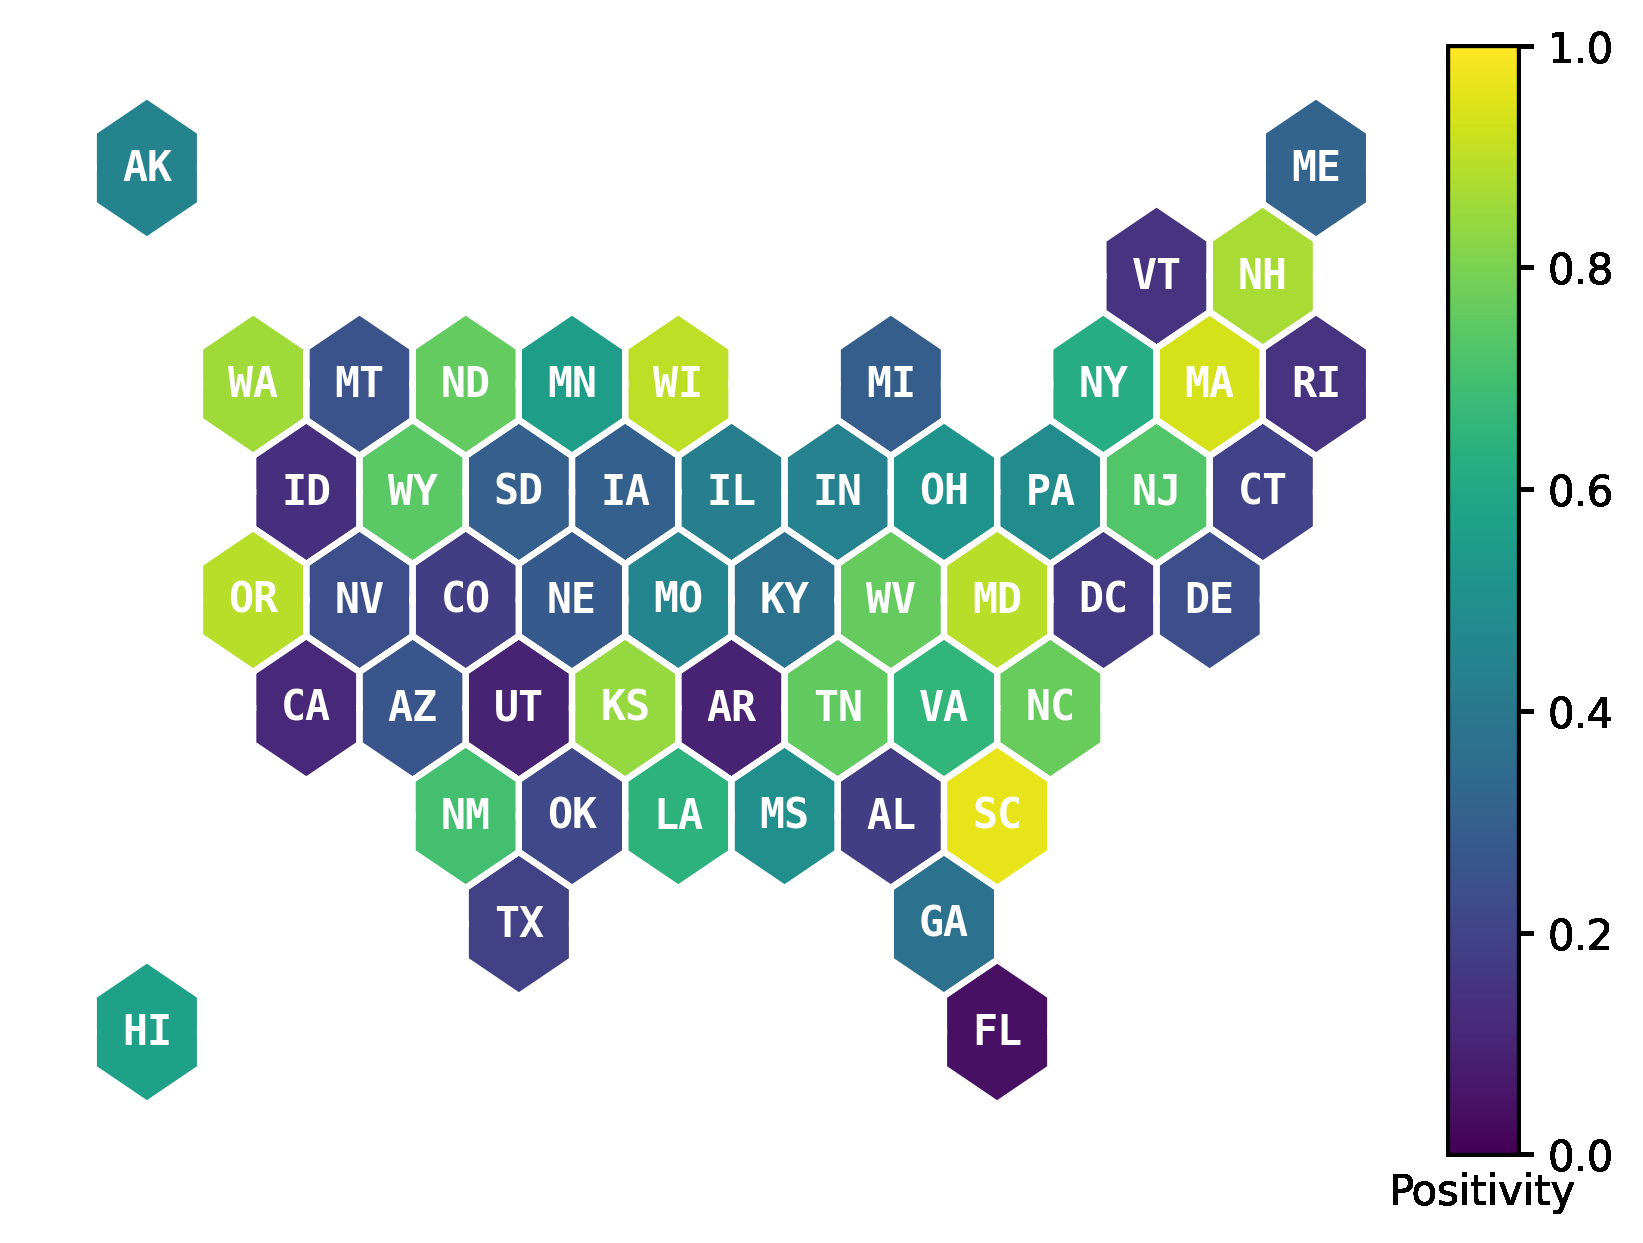
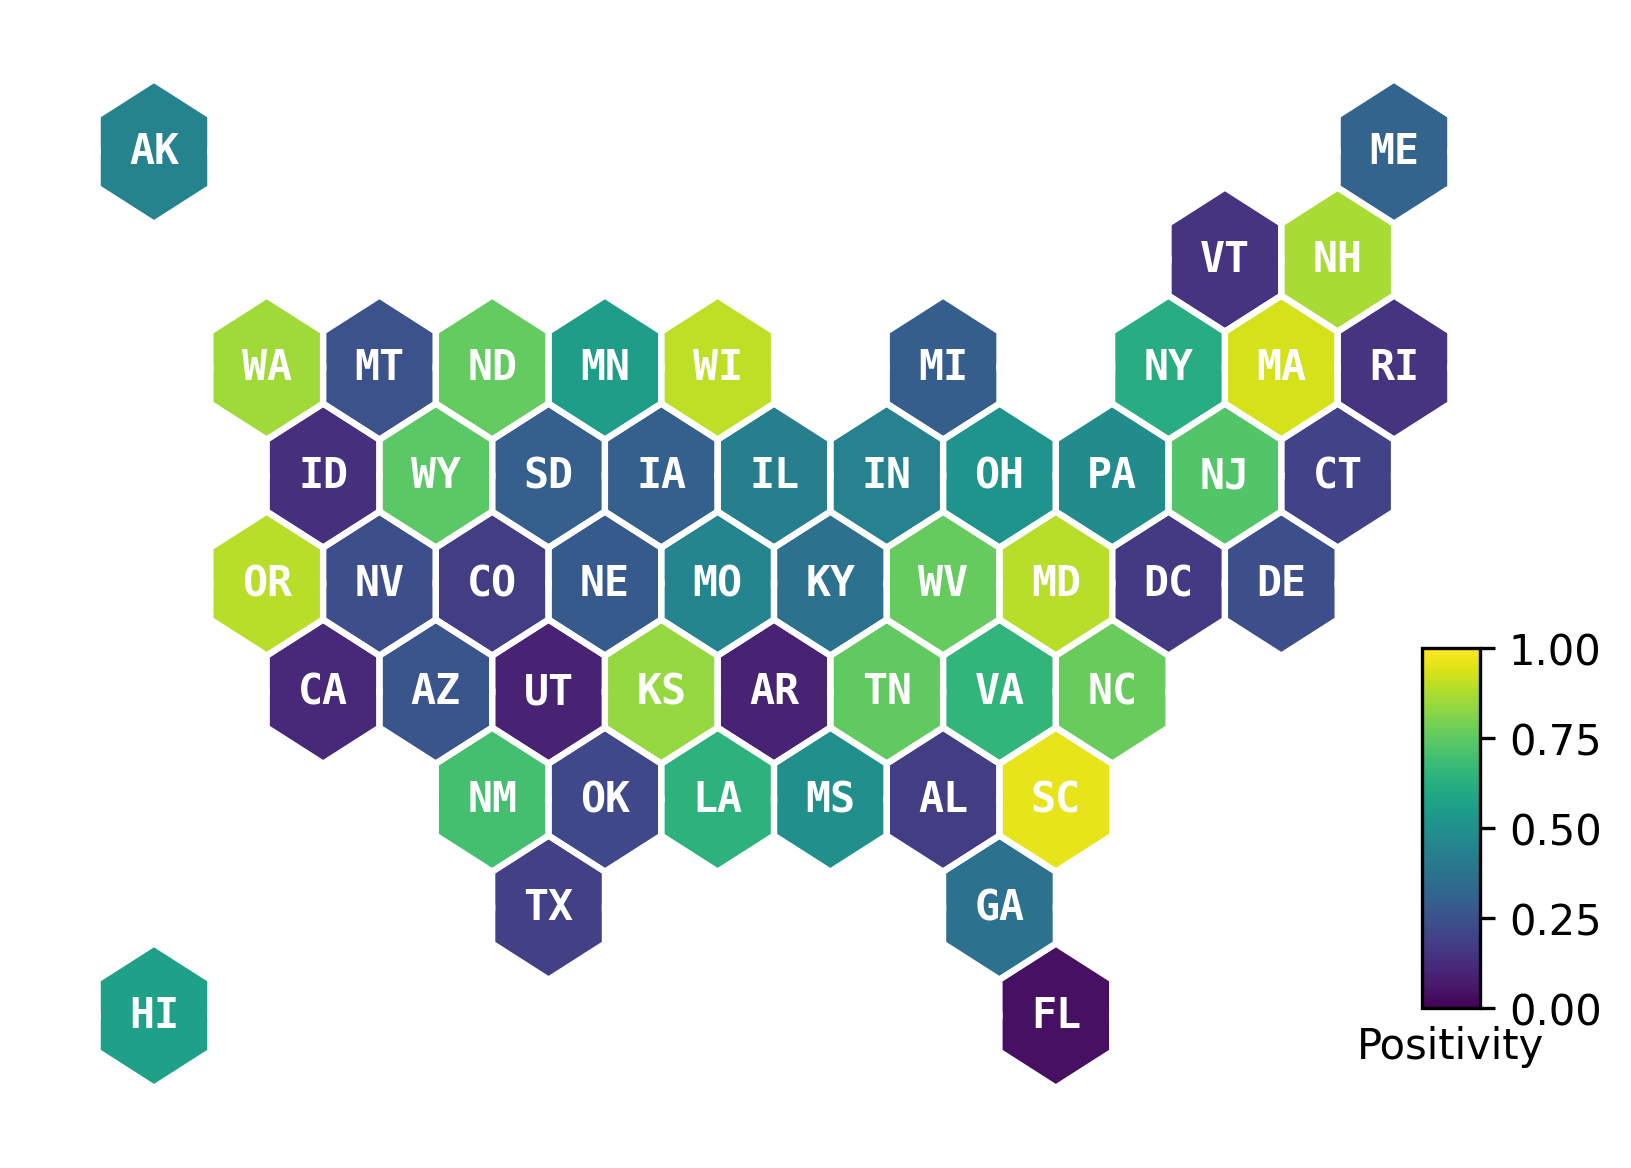
smaller colorbar

Changed region(s): [[0.1226, 0.0308, 0.981, 0.9863], [0.0613, 0.7705, 0.1533, 0.9247], [0.0613, 0.0616, 0.1533, 0.1849]]

diff --git a/shmapy/hex_shmap.py b/shmapy/hex_shmap.py
@@ -389,11 +389,7 @@ def _create_choropleth_hex(
     artist = ax.fill_between(x, ytop, ybottom, facecolor=cmap(pct))
     ax.plot(x, ytop, color=line_color, linewidth=line_width)
     ax.plot(x, ybottom, color=line_color, linewidth=line_width)
-    divider = make_axes_locatable(ax)
-    cax = divider.append_axes('right', size='5%', pad=0.05)
-    cax.set_xlabel(choropleth_axis_label)
-    fig.colorbar(artist, cax=cax)
-    return ax
+    return ax, artist
 
 
 def _create_categorical_hex(
@@ -524,7 +520,7 @@ def plot_hex(
                 line_width=line_width,
             )
         elif chart_type == "choropleth":
-            _create_choropleth_hex(
+            ax, artist = _create_choropleth_hex(
                 fig,
                 ax,
                 [x, y],
@@ -535,7 +531,6 @@ def plot_hex(
                 colormap=colormap,
                 choropleth_axis_label=choropleth_axis_label,
             )
-            ax.axis('off')
 
         else:
             _create_categorical_hex(
@@ -563,6 +558,12 @@ def plot_hex(
         i += 1
 
     plt.axis("off")
+    if chart_type == "choropleth":
+        cax = fig.add_axes([0.85, 0.2, 0.03, 0.25], label=choropleth_axis_label)
+        cax.set_xlabel(choropleth_axis_label)
+        fig.colorbar(artist, cax=cax, ax=ax)
+        ax.axis('off')
+
     if category_labels:
         # custom legend
         patches = []
